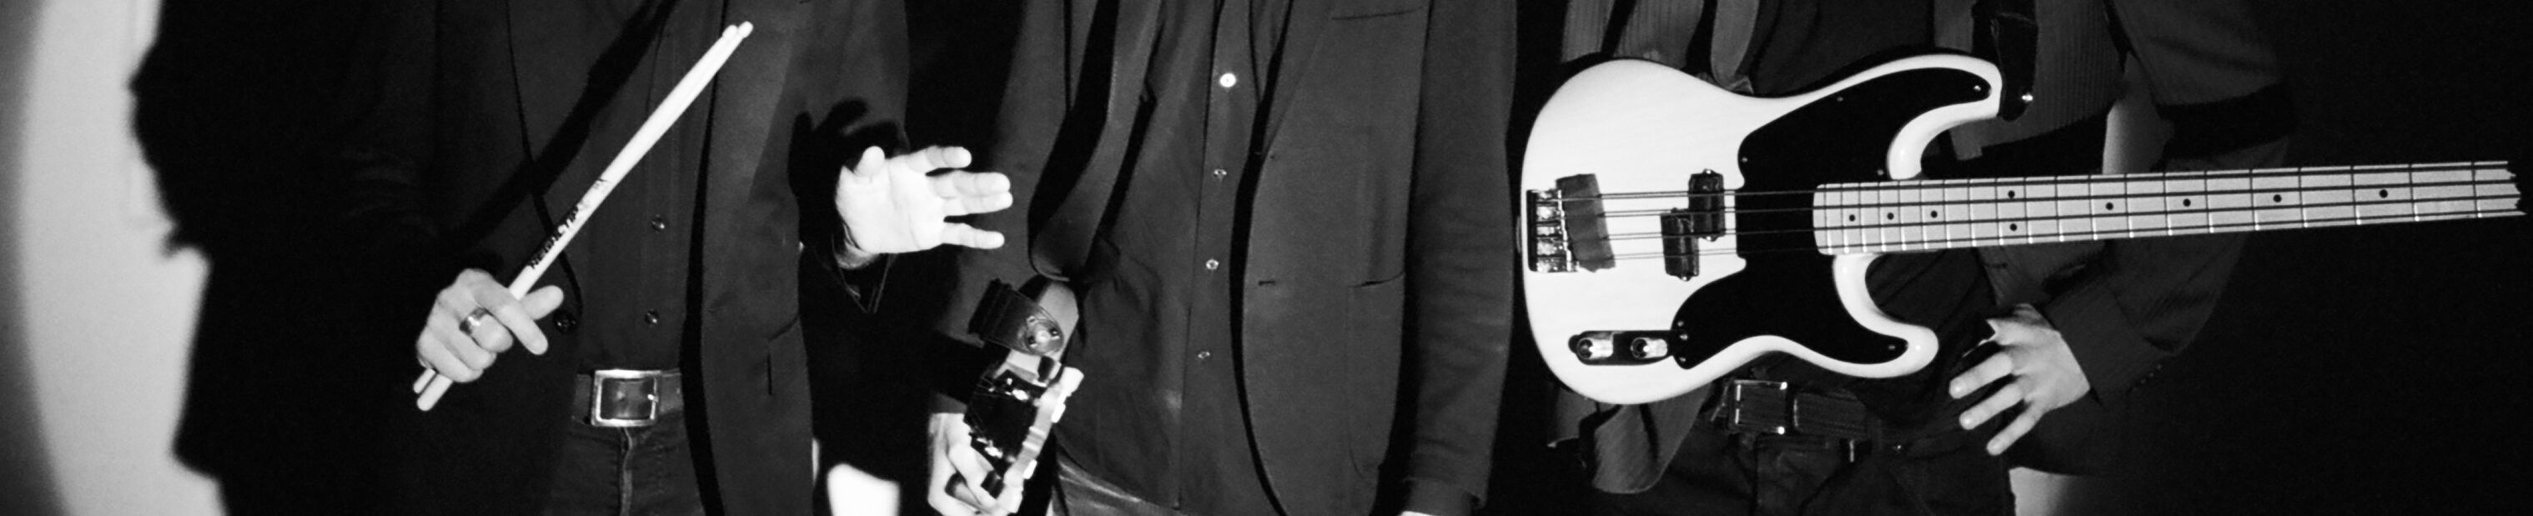
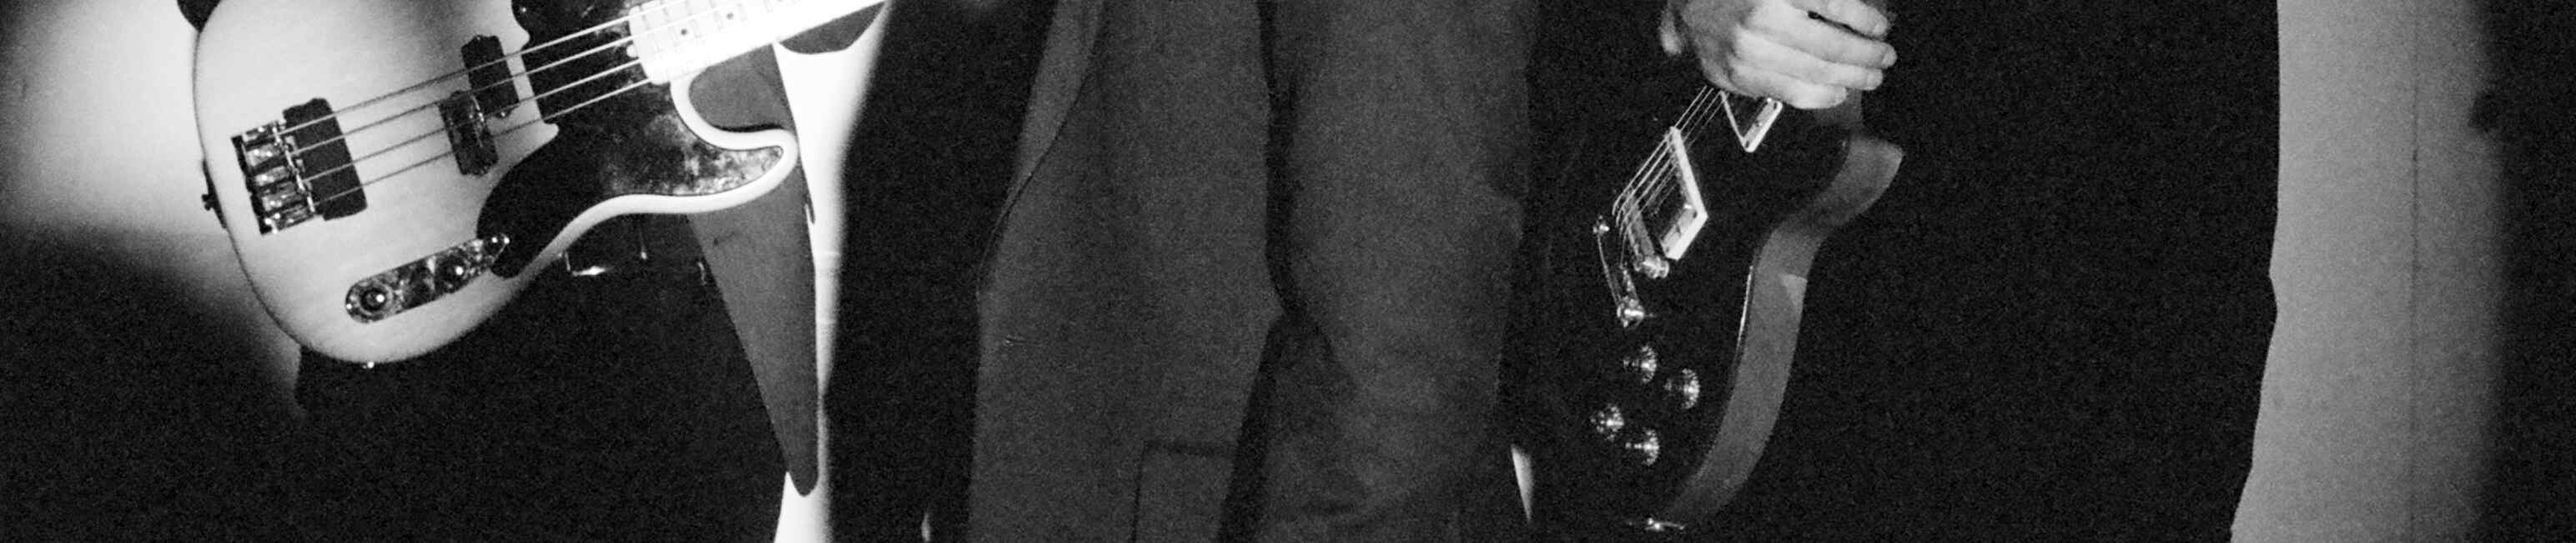
new header images

diff --git a/assets/n.css b/assets/n.css
@@ -346,6 +346,8 @@ blockquote {
 .posts .row, .gigs .row {
   padding: 1em 0;
   display: block; }
+  .posts .row:first-child, .gigs .row:first-child {
+    margin-top: -1em; }
 
 .article_content h2 {
   font-size: 2em;
@@ -436,7 +438,7 @@ blockquote {
   font-style: normal; }
 body {
   color: #232323;
-  font-family: 'avenir next', 'avenir', sans-serif;
+  font-family: georgia, serif;
   line-height: 1.4;
   font-size: 16px;
   background-repeat: repeat-y;

diff --git a/sass/theme.scss b/sass/theme.scss
@@ -6,7 +6,7 @@
 }
 body {
   color: $black;
-  font-family: 'avenir next', 'avenir', sans-serif;
+  font-family: georgia, serif;
   line-height: 1.4;
   font-size: 16px;
   background-repeat: repeat-y;

diff --git a/sass/modules.scss b/sass/modules.scss
@@ -134,6 +134,9 @@
   .row {
     padding: $gutter/4 0;
     display: block;
+    &:first-child {
+      margin-top: -$gutter/4;
+    }
   }
 }
 
